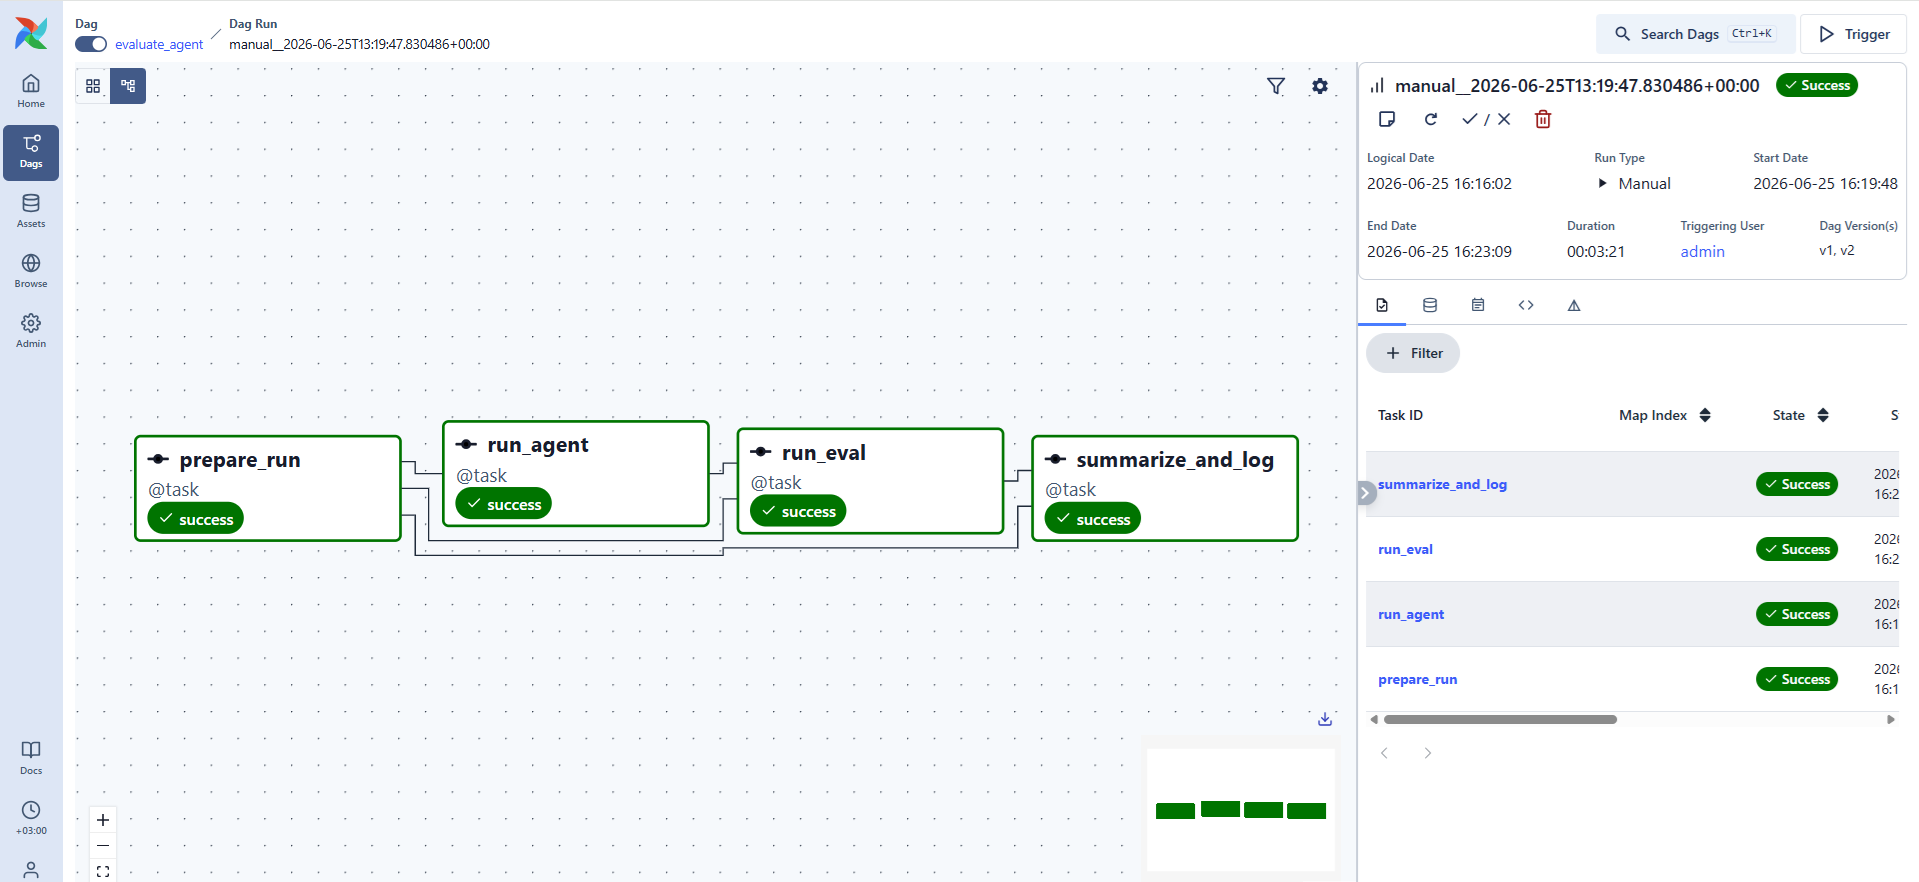
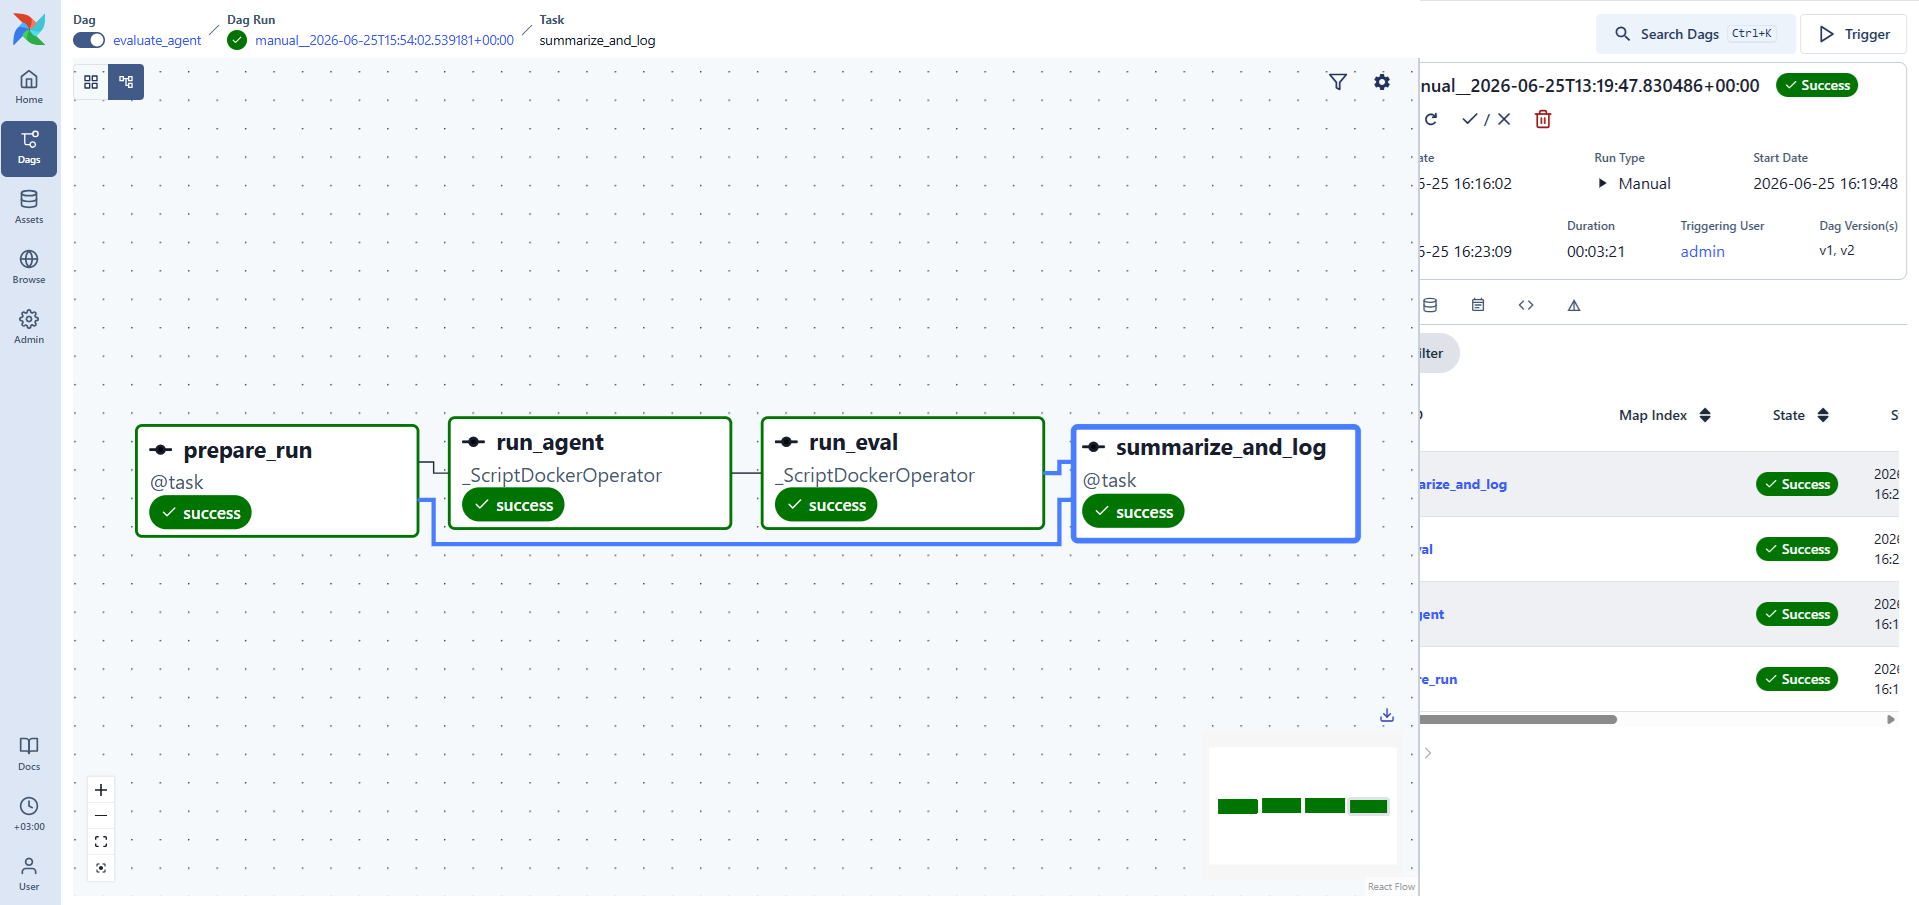
Add docker-compose deployment (Airflow + MLflow + Postgres) and task retries/timeouts
docker-compose.yaml brings the control plane up as containers; the workload still runs
via DockerOperator against the host daemon (not a compose service).

- postgres: metadata DB for both Airflow and MLflow (separate databases).
- mlflow: tracking server, Postgres-backed, serves artifacts. MLFLOW_SERVER_ALLOWED_HOSTS
  is set so the Airflow container can log via http://mlflow:5000 (MLflow 3 validates the
  Host header for DNS-rebinding protection).
- airflow: standalone on LocalExecutor. The repo is bind-mounted at the SAME host path so
  the DAG's PROJECT_ROOT equals the host path and DockerOperator host-path mounts resolve;
  the Docker socket is mounted and the host docker group added so DockerOperator reaches
  the host daemon; runs as the host UID so run artifacts are owned by the user; seeds a
  stable admin/admin login.

- docker/Dockerfile.airflow: Airflow + apache-airflow-providers-docker + mlflow-skinny + git.
- docker/Dockerfile.mlflow: MLflow server + psycopg2.
- docker/postgres-init/01-create-mlflow-db.sql: creates the mlflow database.
- dags/pipeline/mlflow_log.py: logs to MLflow by importing the client directly (lazy import),
  so it works both in compose (baked into the Airflow image) and standalone
  (run-airflow-standalone.sh now also --with mlflow-skinny). scripts/log_mlflow.py removed.
- dags/evaluate_agent.py: retries=1 with exponential backoff (default_args) and per-task
  execution_timeout (prepare 5m, agent 4h, eval 2h, summarize 10m).
[…]

diff --git a/dags/pipeline/mlflow_log.py b/dags/pipeline/mlflow_log.py
@@ -1,36 +1,56 @@
-"""Log a run to MLflow by shelling out to scripts/log_mlflow.py in the project venv.
+"""Log a pipeline run to MLflow directly (mlflow client imported lazily).
 
-Standard-library only; runs under Airflow's interpreter. The mlflow client lives in
-the project .venv (not Airflow's env), so we invoke it via `uv run python`.
+Runs under Airflow's interpreter, which has the mlflow client available:
+  - standalone:      run-airflow-standalone.sh adds it via `--with mlflow-skinny`
+  - docker-compose:  baked into the Airflow image (docker/Dockerfile.airflow)
+mlflow is imported inside the function so DAG *parsing* never requires it.
 """
 from __future__ import annotations
 
+import json
 import os
-import subprocess
 from pathlib import Path
+from typing import Any
 
-LOG_SCRIPT = Path("scripts") / "log_mlflow.py"
+# config.json keys -> MLflow params; metrics.json keys -> MLflow metrics.
+PARAM_KEYS = ["run_id", "split", "subset", "dataset_name", "workers", "model", "task_slice", "cost_limit"]
+METRIC_KEYS = ["submitted", "completed", "resolved", "unresolved", "empty_patch", "errors",
+               "resolve_rate", "api_calls", "total_cost"]
+ARTIFACT_FILES = ["config.json", "metrics.json", "manifest.json"]
 
 
-def log_mlflow_run(
-    run_dir: Path,
-    project_root: Path,
-    tracking_uri: str | None = None,
-    experiment: str | None = None,
-) -> None:
-    """Log params/metrics/artifacts for run_dir to MLflow. Raises if logging fails."""
-    project_root = Path(project_root)
-    env = {**os.environ}
-    # Ensure uv is discoverable regardless of how Airflow was launched.
-    env["PATH"] = f"{Path.home() / '.local' / 'bin'}{os.pathsep}{env.get('PATH', '')}"
-    if tracking_uri:
-        env["MLFLOW_TRACKING_URI"] = tracking_uri
-    if experiment:
-        env["MLFLOW_EXPERIMENT"] = experiment
+def log_mlflow_run(run_dir: Path, tracking_uri: str | None = None, experiment: str | None = None) -> None:
+    """Log params, metrics, provenance tags, and the small JSON files to MLflow.
 
-    subprocess.run(
-        ["uv", "run", "python", str(project_root / LOG_SCRIPT), "--run-dir", str(run_dir)],
-        cwd=str(project_root),
-        env=env,
-        check=True,
+    Reads config.json + metrics.json (+ manifest.json) from run_dir. Raises if the
+    tracking server is unreachable (the run's results are already on disk).
+    """
+    import mlflow  # lazy: needed only when this task runs, not at DAG parse
+
+    run_dir = Path(run_dir)
+    config = json.loads((run_dir / "config.json").read_text(encoding="utf-8"))
+    metrics = json.loads((run_dir / "metrics.json").read_text(encoding="utf-8"))
+    manifest_path = run_dir / "manifest.json"
+    manifest: dict[str, Any] = (
+        json.loads(manifest_path.read_text(encoding="utf-8")) if manifest_path.exists() else {}
     )
+
+    mlflow.set_tracking_uri(tracking_uri or os.environ.get("MLFLOW_TRACKING_URI", "http://localhost:5000"))
+    mlflow.set_experiment(experiment or os.environ.get("MLFLOW_EXPERIMENT", "evaluate_agent"))
+
+    with mlflow.start_run(run_name=config.get("run_id")):
+        mlflow.log_params({k: config[k] for k in PARAM_KEYS if k in config})
+        mlflow.log_metrics(
+            {k: float(metrics[k]) for k in METRIC_KEYS if isinstance(metrics.get(k), (int, float))}
+        )
+        mlflow.set_tag("run_dir", str(run_dir))
+        for k, v in (manifest.get("provenance") or {}).items():
+            if v:
+                mlflow.set_tag(k, v)
+        remote_uri = (manifest.get("storage") or {}).get("remote_uri")
+        if remote_uri:
+            mlflow.set_tag("remote_uri", remote_uri)
+        for fn in ARTIFACT_FILES:
+            p = run_dir / fn
+            if p.exists():
+                mlflow.log_artifact(str(p))

diff --git a/dags/evaluate_agent.py b/dags/evaluate_agent.py
@@ -15,7 +15,7 @@ avoided. The Docker provider must be present in that env -- see run-airflow-stan
 from __future__ import annotations
 
 import sys
-from datetime import datetime
+from datetime import datetime, timedelta
 from pathlib import Path
 
 from airflow.providers.docker.operators.docker import DockerOperator
@@ -126,9 +126,18 @@ PARAMS = {
     catchup=False,
     params=PARAMS,
     tags=["mlops", "swebench", "evaluation"],
+    # Baseline for every task: retry transient failures (API blips, flaky container
+    # start) with exponential backoff. Tasks are safe to retry -- run_agent resumes
+    # from preds.json, run_eval just regenerates reports.
+    default_args={
+        "retries": 1,
+        "retry_delay": timedelta(minutes=1),
+        "retry_exponential_backoff": True,
+        "max_retry_delay": timedelta(minutes=10),
+    },
 )
 def evaluate_agent():
-    @task
+    @task(execution_timeout=timedelta(minutes=5))
     def prepare_run() -> dict:
         """Resolve params into a run config and create runs/<run-id>/ with config.json.
 
@@ -149,6 +158,7 @@ def evaluate_agent():
         mounts=COMMON_MOUNTS,
         mount_tmp_dir=False,
         auto_remove="force",
+        execution_timeout=timedelta(hours=4),
         environment={
             "SUBSET": _cfg("subset"),
             "SPLIT": _cfg("split"),
@@ -167,6 +177,7 @@ def evaluate_agent():
         mounts=COMMON_MOUNTS,
         mount_tmp_dir=False,
         auto_remove="force",
+        execution_timeout=timedelta(hours=2),
         environment={
             "DATASET_NAME": _cfg("dataset_name"),
             "SPLIT": _cfg("split"),
@@ -177,7 +188,7 @@ def evaluate_agent():
         },
     )
 
-    @task
+    @task(execution_timeout=timedelta(minutes=10))
     def summarize_and_log(run_config: dict) -> str:
         """Parse eval results into metrics.json, write manifest.json, log to MLflow.
 
@@ -191,7 +202,7 @@ def evaluate_agent():
         write_metrics(metrics, run_dir)
         write_manifest(run_dir, run_config, metrics, PROJECT_ROOT)
         print(f"[summarize_and_log] metrics={metrics}")
-        log_mlflow_run(run_dir, PROJECT_ROOT)
+        log_mlflow_run(run_dir)
         print("[summarize_and_log] logged to MLflow")
         return str(run_dir)
 